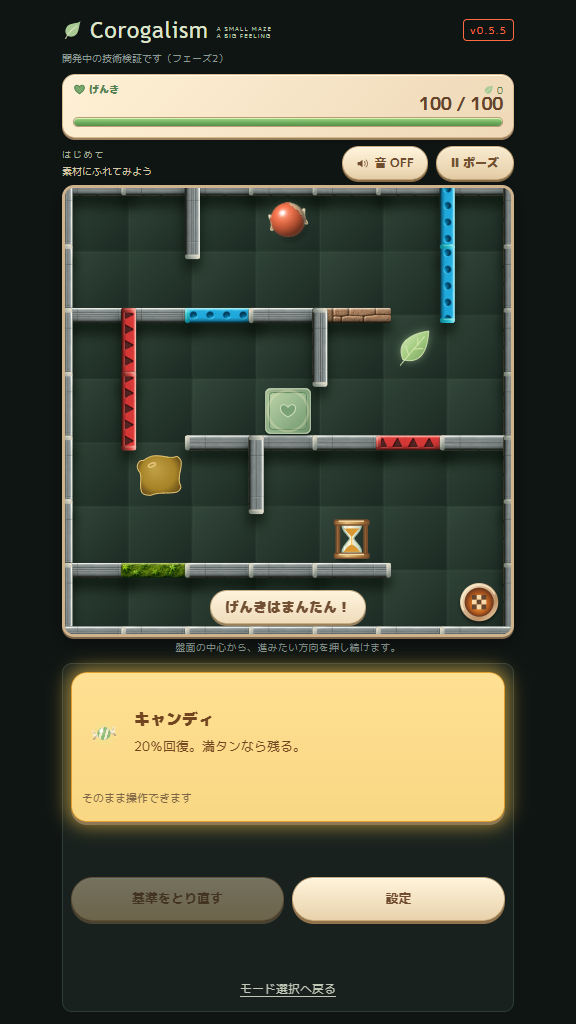
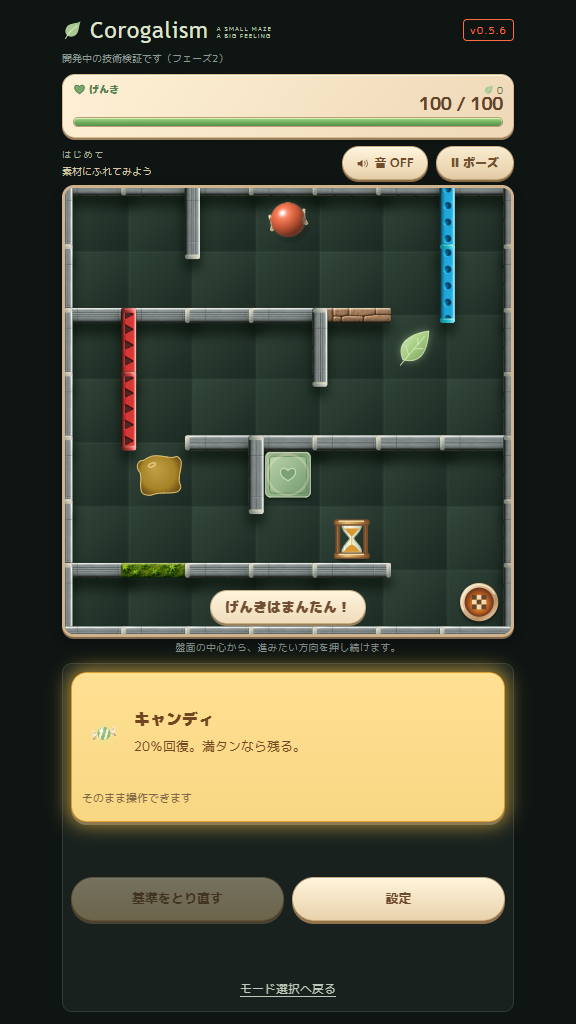
fix(T-246): focus impact walls and shelter tutorial rest spot

diff --git a/test/tutorial.test.js b/test/tutorial.test.js
@@ -34,8 +34,9 @@ test('説明は0.7秒後に更新し、残し続け、各素材は初回だけ',
  t.contact('moss');t.contact('spike');t.contact('moss');t.tick(700);assert.equal(t.active,'moss');t.tick(700);assert.equal(t.active,'spike');t.tick(60000);assert.equal(t.active,'spike');
  t.reset();assert.equal(t.active,null);t.contact('rubber');t.tick(700);assert.equal(t.active,'rubber');
 });
-test('体験用のゴムとトゲを増やし、壁の大半を標準にする',()=>{
- const s=createTutorialStage();for(const [id,count] of [['rubber',3],['spike',3],['stone',1],['moss',1]])assert.equal(s.walls.filter(w=>w.materialId===id).length,count);
+test('ゴムとトゲは助走先の縦壁だけにし、壁の大半を標準にする',()=>{
+ const s=createTutorialStage();for(const [id,count] of [['rubber',2],['spike',2],['stone',1],['moss',1]])assert.equal(s.walls.filter(w=>w.materialId===id).length,count);
+ assert.ok(s.walls.filter(w=>['rubber','spike'].includes(w.materialId)).every(w=>w.h>w.w));
  assert.ok(s.walls.filter(w=>w.materialId==='default').length/s.walls.length>.8);
 });
 
@@ -48,4 +49,11 @@ test('横通路の助走でゴムの反発とトゲの被弾を体験できる',
   if(id==='rubber'){assert.ok(p.actor.vx*direction<0);assert.equal(p.hp.value,p.hp.max);}
   else assert.ok(p.hp.value<p.hp.max);
  }
+});
+
+test('ひとやすみは標準壁の角へゆっくり寄せて回復できる',()=>{
+ const p=createStagePlay(0,null,{tutorial:true});p.hp.applyImpact(4,{materialId:'stone'},1);
+ const initial=p.hp.value;p.teleport(4,4.5);
+ for(let i=0;i<1200&&!p.stage.rest.used;i++)p.advance({dt:1/120,elapsedMs:1000/120,tilt:{x:-.1,y:-.1},base:BASE});
+ assert.equal(p.stage.rest.used,true);assert.ok(p.hp.value>initial);
 });

diff --git a/src/world/tutorialStage.js b/src/world/tutorialStage.js
@@ -13,8 +13,8 @@ export function createTutorialStage() {
  if(!checkReachability(maze).ok)throw new Error('チュートリアルの通路が接続されていません');
  maze.path=solvePath(maze);maze.pathLength=maze.path.length;maze.turns=countTurns(maze.path);
  const stage=createStage(maze);
- // 標準壁主体。横通路の先にも素材壁を置き、助走後の反発・被弾を体験する。
- for(const [y,x,materialId] of [[2,2,'rubber'],[2,4,'stone'],[4,5,'spike'],[6,1,'moss']]){
+ // 標準壁主体。ゴム・トゲは横通路の先だけに置き、助走後の反発・被弾を体験する。
+ for(const [y,x,materialId] of [[2,4,'stone'],[6,1,'moss']]){
   const wall=stage.walls.find(w=>Math.abs(w.y-(y-stage.wallThickness/2))<.001&&Math.abs(w.x-(x-stage.wallThickness/2))<.001&&w.w>w.h);
   wall.materialId=materialId;
  }
@@ -26,7 +26,8 @@ export function createTutorialStage() {
  }
  stage.recovery={x:3.5,y:.5,collected:false};
  stage.leaf={x:5.5,y:2.5,collected:false};
- stage.rest={x:3.5,y:3.5,used:false,progress:0};
+ // 標準壁2面の内角に寄せて静止しやすくし、助走の直線から外す。
+ stage.rest={x:3.5,y:4.5,used:false,progress:0};
  stage.sticky=[{x:1.5,y:4.5}];
  stage.hourglass={x:4.5,y:5.5,collected:false};
  stage.theme={id:'tutorial',label:'素材にふれてみよう'};

diff --git a/index.html b/index.html
@@ -23,7 +23,7 @@
         <span class="brand-word">Corogalism</span>
       </h1>
       <p class="brand-tagline">A SMALL MAZE<br>A BIG FEELING</p>
-      <span class="badge">v0.5.5</span>
+      <span class="badge">v0.5.6</span>
       </div>
       <p class="sub" id="dev-note">開発中の技術検証です（フェーズ2）</p>
     </div>

diff --git a/precache.js b/precache.js
@@ -1,4 +1,4 @@
-self.PRECACHE_VERSION = 'f65d03c21c26812d';
+self.PRECACHE_VERSION = '285c114ec0a187a3';
 self.PRECACHE_FILES = [
   "assets/audio/bgm.wav",
   "assets/audio/rolling-loop.wav",

diff --git a/docs/tutorial-continuous.md b/docs/tutorial-continuous.md
@@ -24,3 +24,9 @@
 上段の横通路を右へ進んだ先（x=6、y=0〜2）にゴム壁、中段を左へ進んだ先（x=1、y=2〜4）にトゲ壁を追加。いずれも内壁を2区間追加し、既存と合わせ各3区間。通路幅内で進路が多少ずれても体験できる配置。標準壁は8割以上を維持し、全セル到達・アイテムへの接近を保持。本編のランダム配置や素材係数は変更なし。
 
 静止から傾き0.5の実物理で上段(2.5,1.5)から右、中段(5.5,3.5)から左へ進め、最初の衝突が目的の素材かつ速度1.2超であること、ゴムは反発し無傷、トゲは被弾することを検証。
+
+## T-246 助走先だけに限定（v0.5.6）
+
+従来の横向きゴム（x=2,y=2）・トゲ（x=5,y=4）は標準壁に戻した。ゴムは上段右端、トゲは中段左端の縦壁各2区間のみ。迷路形状と物理係数は変更なし。
+
+ひとやすみは(3.5,3.5)から(3.5,4.5)へ移動。標準壁の内角で、ゴム・トゲへ向かう助走の直線から外す。実物理で(4,4.5)から弱い斜め傾き(-0.1,-0.1)を保ち、壁へ寄せて2秒静止・回復できることを検証。回復条件そのものは変更なし。

diff --git a/docs/handoff-codex.md b/docs/handoff-codex.md
@@ -1,5 +1,7 @@
 # Codexへの引き継ぎ（2026-09-12 更新）
 
+**v0.5.6（T-246）実装済み・公開確認待ち:** ゴム・トゲは助走先の縦壁各2区間だけに限定。従来の横壁各1区間は標準へ戻した。ひとやすみを標準壁の内角へ移動。迷路形状・物理は維持。
+
 **v0.5.5（T-245）公開確認済み・f394c0d:** チュートリアル上段の直線先へゴム、中段の直線先へトゲを2区間ずつ追加。各3区間にし助走後の衝突を体験しやすくした。本編の配置・物理係数は維持。
 
 **v0.5.4（T-244）公開確認済み・8beb841:** 説明カード全体が金色に2回光る1.8秒の演出へ変更。「更新」ラベルは削除。プレイの流れ・枠寸法は維持。

diff --git a/AGENTS.md b/AGENTS.md
@@ -14,6 +14,8 @@
 
 ## 2. 現在の状態
 
+**v0.5.6（T-246）実装済み・公開確認待ち:** ゴム・トゲは助走先の縦壁各2区間だけに限定。従来の横壁各1区間は標準へ戻した。ひとやすみを標準壁の内角へ移動。迷路形状・物理は維持。
+
 **v0.5.5（T-245）公開確認済み・f394c0d:** チュートリアル上段の直線先へゴム、中段の直線先へトゲを2区間ずつ追加。各3区間にし助走後の衝突を体験しやすくした。本編の配置・物理係数は維持。
 
 **v0.5.4（T-244）公開確認済み・8beb841:** 説明カード全体が金色に2回光る1.8秒の演出へ変更。「更新」ラベルは削除。プレイの流れ・枠寸法は維持。

diff --git a/CLAUDE.md b/CLAUDE.md
@@ -14,6 +14,8 @@
 
 ## 2. 現在の状態
 
+**v0.5.6（T-246）実装済み・公開確認待ち:** ゴム・トゲは助走先の縦壁各2区間だけに限定。従来の横壁各1区間は標準へ戻した。ひとやすみを標準壁の内角へ移動。迷路形状・物理は維持。
+
 **v0.5.5（T-245）公開確認済み・f394c0d:** チュートリアル上段の直線先へゴム、中段の直線先へトゲを2区間ずつ追加。各3区間にし助走後の衝突を体験しやすくした。本編の配置・物理係数は維持。
 
 **v0.5.4（T-244）公開確認済み・8beb841:** 説明カード全体が金色に2回光る1.8秒の演出へ変更。「更新」ラベルは削除。プレイの流れ・枠寸法は維持。

diff --git a/GEMINI.md b/GEMINI.md
@@ -14,6 +14,8 @@
 
 ## 2. 現在の状態
 
+**v0.5.6（T-246）実装済み・公開確認待ち:** ゴム・トゲは助走先の縦壁各2区間だけに限定。従来の横壁各1区間は標準へ戻した。ひとやすみを標準壁の内角へ移動。迷路形状・物理は維持。
+
 **v0.5.5（T-245）公開確認済み・f394c0d:** チュートリアル上段の直線先へゴム、中段の直線先へトゲを2区間ずつ追加。各3区間にし助走後の衝突を体験しやすくした。本編の配置・物理係数は維持。
 
 **v0.5.4（T-244）公開確認済み・8beb841:** 説明カード全体が金色に2回光る1.8秒の演出へ変更。「更新」ラベルは削除。プレイの流れ・枠寸法は維持。
